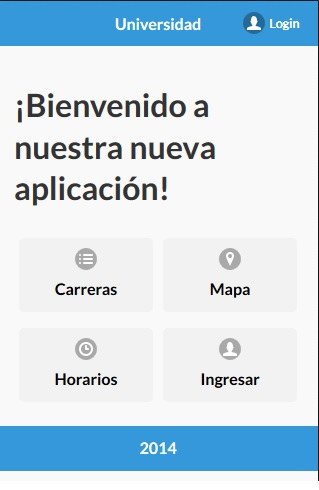
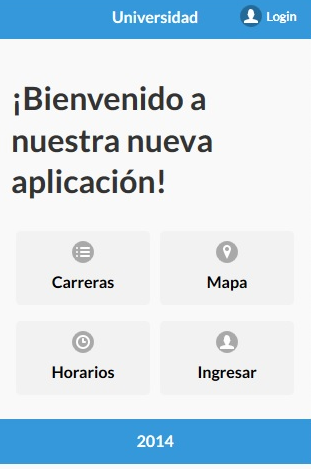
Un screen más.

diff --git a/readme.md b/readme.md
@@ -6,7 +6,9 @@
 
 Sistema de información y administración de la UDA
 =======
+Vistas del sistema.
 [![Screen Shot](images/screen1.png)](http://github.com/avgvsto/univ/)
+[![Screen Shot](images/screen2.png)](http://github.com/avgvsto/univ/)
 Servicios básicos a prestar
 ---------------------------
 
